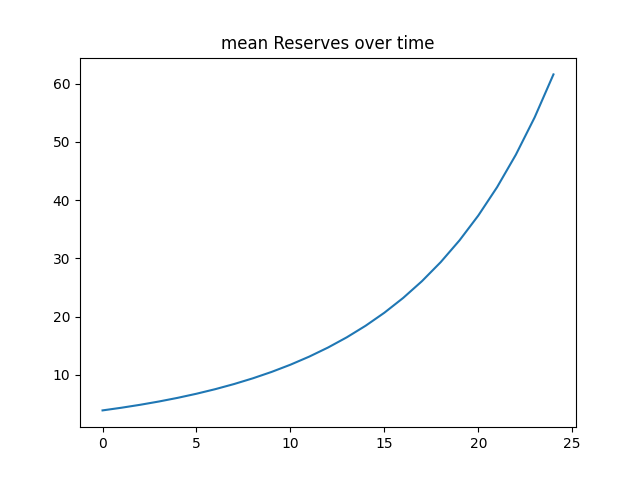
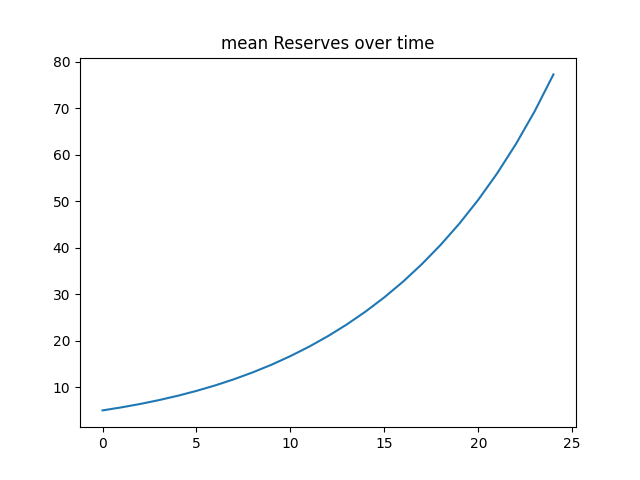
improved objective function and SDF
however, test does not work not.

diff --git a/definitions.py b/definitions.py
@@ -30,17 +30,17 @@ random.seed(0)
 # Parameters:
 MAX_EQUITY = 100 # max equity used for training the NN
 INITIAL_EQUITY = 1 # initial equity of the banks
-N_banks = 100 # number of banks (TODO: change it to 4236)
+N_banks = 150 # number of banks (TODO: change it to 4236)
 T = 150 # number of time steps
 theta = 0.5 # risk_aversion , inverse of the elasticity of substitution
-beta = 0.97 # discount factor
+beta = 0.96 # discount factor
 # TODO: add stochastic discount factor (utility function of households)
-SDF = 1 * beta #Stochastic discount factor 
+SDF = 0.97 * beta #Stochastic discount factor 
 lmda = 0.85 # legal ratio of deposits to assets (0.97 in calibration, but this
 # value gives a more reasonable ratio of deposits to equity )
 propor_div = 0.04 # proportion paid out as dividends (0.02<mu<0.05)
 rM = 0.03 # interest rate central bank
-
+sigma = 0.01 # variance of the shock of cost (we have to think about units)
 R_M = 1 + rM 
 
 
@@ -104,7 +104,8 @@ def R_D(Di):
     R_D = t.add(1, r_D) # R = 1+r
     return R_D
 
-def size_multiplier_of_cost(size):
+
+def size_multiplier_f(size):
     """
     This function returns the multiplier of the cost of the bank. 
     That is, the cost of the bank is proportional to the size of the bank.
@@ -143,7 +144,6 @@ def size_of_bank_after_mergers(size, Ei):
     returns:
     size: tensor of size N_banks, with the new size of each bank
     """
-
     # size of bankrupt banks is the sum of the size of all banks where Ei = 0
     bankrupt_mask = t.eq(Ei, t.tensor(0.0))
     size_bankrupt = t.sum(t.masked_select(size, bankrupt_mask))
@@ -155,8 +155,7 @@ def size_of_bank_after_mergers(size, Ei):
     return new_size 
 
 def cost(Li,Di, size):
-    # TODO: add f(n) function cost as a function of size of firm n
-    size_multiplier = size_multiplier_of_cost(size)
+    size_multiplier = size_multiplier_f(size) 
     cost_without_noise = t.add(t.mul(cost_L, Li), t.mul(cost_D, Di))
     noise = t.mul(sigma, t.randn_like(cost_without_noise)) # N(0,sigma) noise
     cost  = t.mul(size_multiplier,cost_without_noise) + noise
@@ -193,7 +192,7 @@ class PolicyNet(nn.Module):
         x = F.relu(self.fc2(x))
         x = t.sigmoid(self.fc3(x))
         return x
-hidden_size = 10
+hidden_size = 16
 percent_assets_to_reserves = PolicyNet(input_size=N_banks,
                       hidden_size=hidden_size,
                       output_size=N_banks)
@@ -223,7 +222,7 @@ def next_equity_size_and_dividents(Ei, size):
     profits = t.add(t.add(t.mul(Mi, rM),
                     t.mul(Li, rL(Li))),
                     t.add(-t.mul(Di, rD(Di)), 
-                    -cost(Li,Di)))
+                    -cost(Li,Di, size)))
 
     dividends = t.mul(propor_div, profits)
     # equity_next = Ei + profits - dividends
@@ -243,18 +242,18 @@ def objective():
     n_simulations_in_epoch=10
     for _ in range(n_simulations_in_epoch):
         Ei = t.mul(t.rand(N_banks), MAX_EQUITY) # initial equity
-        SDF_t = 1.0
+        size = t.distributions.dirichlet.Dirichlet(t.ones(N_banks)).sample() * N_banks
+        sdf_t = 1.0
         for _ in range(T):
-            # update Ei
-            Ei, size, dividends = next_equity_size_and_dividents(Ei, size) 
-            # value += SDF*dividends 
-            value = t.add(value, t.mul(SDF, dividends))
-            SDF_t *= SDF 
-            
+            Ei, size, dividends = next_equity_size_and_dividents(Ei, size) # update Ei
+            # value += sdf_t*dividends 
+            value = t.add(value, t.mul(sdf_t, dividends))
+            sdf_t *= SDF # TODO: add stochastic discount factor
+    # divide the value by the number of simulations to get the average
+    value = t.div(value, n_simulations_in_epoch)
+    return t.mean(value) # the social planner cares equally about all banks
 
-    return t.sum(value) # the social planner cares equally about all banks
-
-optimizer = optim.Adam(percent_assets_to_reserves.parameters(), lr=0.0001)
+optimizer = optim.Adam(percent_assets_to_reserves.parameters(), lr=0.001)
 
 def initialize_and_load_NN():
     try: 

diff --git a/simulation.py b/simulation.py
@@ -1,13 +1,7 @@
-# TODO: size transition and cost function. 
-# try transition without noise (sigman = 0) and noise without transition
-# TODO: size transition and cost function. 
-# try transition without noise (sigman = 0) and noise without transition
 # TODO: Why do people perfer Loans to Deposits? Deposits higher return and no cost
 # TODO: bigger neural networks? 
 # TODO: the deposits are touching the lower bound
 # TODO: all companies should be symmetric in the beginning. use last layer to enforce this? 
-# TODO: explosive growht. Companies increase size by 100% in 5 years
-# TODO: equity deposits rations unstables
 # TODO: explosive growht. Companies increase size by 100% in 5 years
 # TODO: equity deposits rations unstables
 # TODO: Profiling for faster code. 
@@ -15,9 +9,6 @@
 # TODO peace of mind. Ensure that without any shocks,
 #  the system is stable and the solution is the analytical one
 # TODO: add shocks to the system
-# TODO: add f(n) function cost as a function of size of firm n
-# TODO: add shocks to the system
-# TODO: add f(n) function cost as a function of size of firm n
 # TODO: so far, ratio of deposits to assets is equality. Make it inequality.
 # TODO: add things to assert. E.g. ROE around 5% and 10%. Rates not 1000%.
 """
@@ -57,41 +48,39 @@ plt.savefig('plots/reserves_first_bank.png')
 plt.clf()
 
 # run a simulation
-length_simulation = 30
-length_simulation = 30
+length_simulation = 25
 
 # history 
+hist_totalAssets = np.zeros((length_simulation, N_banks))
 hist_E = np.zeros((length_simulation, N_banks))
 hist_L = np.zeros((length_simulation, N_banks))
 hist_D = np.zeros((length_simulation, N_banks))
 hist_M = np.zeros((length_simulation, N_banks))
-hist_totalAssets = np.zeros((length_simulation, N_banks))
-hist_totalAssets = np.zeros((length_simulation, N_banks))
 hist_rL = np.zeros(length_simulation)
 hist_rD = np.zeros(length_simulation)
 hist_rM = np.ones(length_simulation) * rM
 
 # initial equity and size
-E = t.ones(N_banks) * INITIAL_EQUITY
+E = t.ones(N_banks)
 size = t.ones(N_banks)
+sum_size = size.sum()
 for i in tqdm(range(length_simulation)):
     # ensure simulation space is same as training space
     assert (E >= 0).all()
     assert (MAX_EQUITY >= E).all() 
-
-    E, dividends = next_equity_size_and_dividents(E) # update E
+    assert sum_size == size.sum() # sum size should stay constant 
+    E, size, dividends = next_equity_size_and_dividents(E, size) # update E
     D = E*lmda/(1-lmda)
     total_assets = t.add(E, D)
     M = t.mul(percent_assets_to_reserves(E), total_assets)
     L = t.add(t.add(E, E*lmda/(1-lmda)), -M)
 
     # append history
+    hist_totalAssets[i] = total_assets.detach().numpy()
     hist_E[i] = E.detach().numpy()
     hist_L[i] = L.detach().numpy()
     hist_D[i] = D.detach().numpy()
     hist_M[i] = M.detach().numpy()
-    hist_totalAssets[i] = total_assets.detach().numpy()
-    hist_totalAssets[i] = total_assets.detach().numpy()
     hist_rL[i] = rL(L).detach().numpy()
     hist_rD[i] = rD(D).detach().numpy()
 
@@ -102,7 +91,13 @@ assert np.isclose(accounting_condition,0, 0.0001, 0.0001).all
                         # PLOTS #
 #######################################################
 
-
+# plot the distribution of equity at time 0, T/2 and T
+for time in [0, length_simulation//2, length_simulation-1]:
+    plt.hist(hist_E[time], bins=100)
+    plt.title('distribution of equity at time ' + str(time))
+    plt.savefig('plots/distribution_of_equity_at_time_' + str(time) + '.png')
+    plt.clf()
+    
 # plot the mean history of Equity and Loans
 for account, hist_acc in [("Equity", hist_E),
                          ("Loans", hist_L), 
@@ -185,7 +180,6 @@ plt.savefig('plots/interest_rates.png')
 plt.clf()
 
 # we can do alternative method (XGBoost) and see that solutions coincide. 
-# TODO: check maliars and how they did it
 # TODO: check maliars and how they did it
 
 # see how the model evolves (retraining the NN) with r_m increasing from -0.1 to 0.1

diff --git a/test_unittest.py b/test_unittest.py
@@ -3,11 +3,10 @@ import numpy as np
 import torch 
 from definitions import *
 
-N_BANKS = 100
 class TestSimulation(unittest.TestCase):
     def test_network_not_nan(self):
         # test that the network is not nan
-        E = torch.ones(100,N_BANKS)
+        E = torch.ones(100,N_banks)
         percent_assets_to_reserves = initialize_and_load_NN()
 
         percent = percent_assets_to_reserves(E)
@@ -65,7 +64,7 @@ class TestSimulation(unittest.TestCase):
             Li_delta[i] += Delta
             profits_deltaL = Mi*rM + Li_delta*rL(Li_delta) - Di*rD(Di) - cost(Li_delta,Di, size)
             dprofits_dLi = (profits_deltaL - profits)/Delta
-            # print(round(dprofits_dLi[0].item(),3))
+            print(round(dprofits_dLi[0].item(),3))
             assert abs(dprofits_dLi[0].item()) < 0.01
 
             # now the same with respect to Di
@@ -73,7 +72,7 @@ class TestSimulation(unittest.TestCase):
             Di_delta[i] += Delta
             profits_deltaD = Mi*rM + Li*rL(Li) - Di_delta*rD(Di_delta) - cost(Li,Di_delta, size)
             dprofits_dDi = (profits_deltaD - profits)/Delta
-            # print(round(dprofits_dDi[0].item(),3))
+            print(round(dprofits_dDi[0].item(),3))
             assert abs(dprofits_dDi[0].item()) < 0.01
 
             # equation 83
@@ -81,7 +80,10 @@ class TestSimulation(unittest.TestCase):
             # print(round(Di[i].item() - lmda*Li[i].item() - lmda*Mi[i].item(),3))
             assert abs(Di[i].item() - lmda*Li[i].item() - lmda*Mi[i].item()) < 0.01
 
-        
+# test FOCs
+# test that the FOCs are satisfied
+test = TestSimulation()
+test.test_FOCs()
 
 if __name__ == '__main__':
     unittest.main()

diff --git a/train_NN.py b/train_NN.py
@@ -28,16 +28,23 @@ for epoch in tqdm(range(n_epochs)):
     loss.backward()
     optimizer.step()
     losses.append(loss.item())
+    if epoch % 20 == 0:
+        print(f"Epoch {epoch} loss: {loss.item()}")
 
     # Early stop. There is no need for validation set.
+    # keep weights of the best model
     # check if loss improved
     if loss < best_loss:
         best_loss = loss
         wait = 0
+        # weights of the best model
+        t.save(percent_assets_to_reserves.state_dict(), 'percent_assets_to_reserves.pt')
     else:
         wait += 1
         if wait >= patience:
             print(f"Loss hasn't improved in {patience} epochs. Stop")
+            # load the best weights
+            percent_assets_to_reserves.load_state_dict(t.load('percent_assets_to_reserves.pt'))
             break
 
 # save the neural network weights

diff --git a/randomstuff.py b/randomstuff.py
@@ -1,0 +1,10 @@
+import torch 
+from definitions import *
+N_banks = 150
+
+E = torch.ones(100, N_banks)
+percent_assets_to_reserves = initialize_and_load_NN()
+
+percent = percent_assets_to_reserves(E)
+torch.isnan(percent).any()
+print("hello world")
